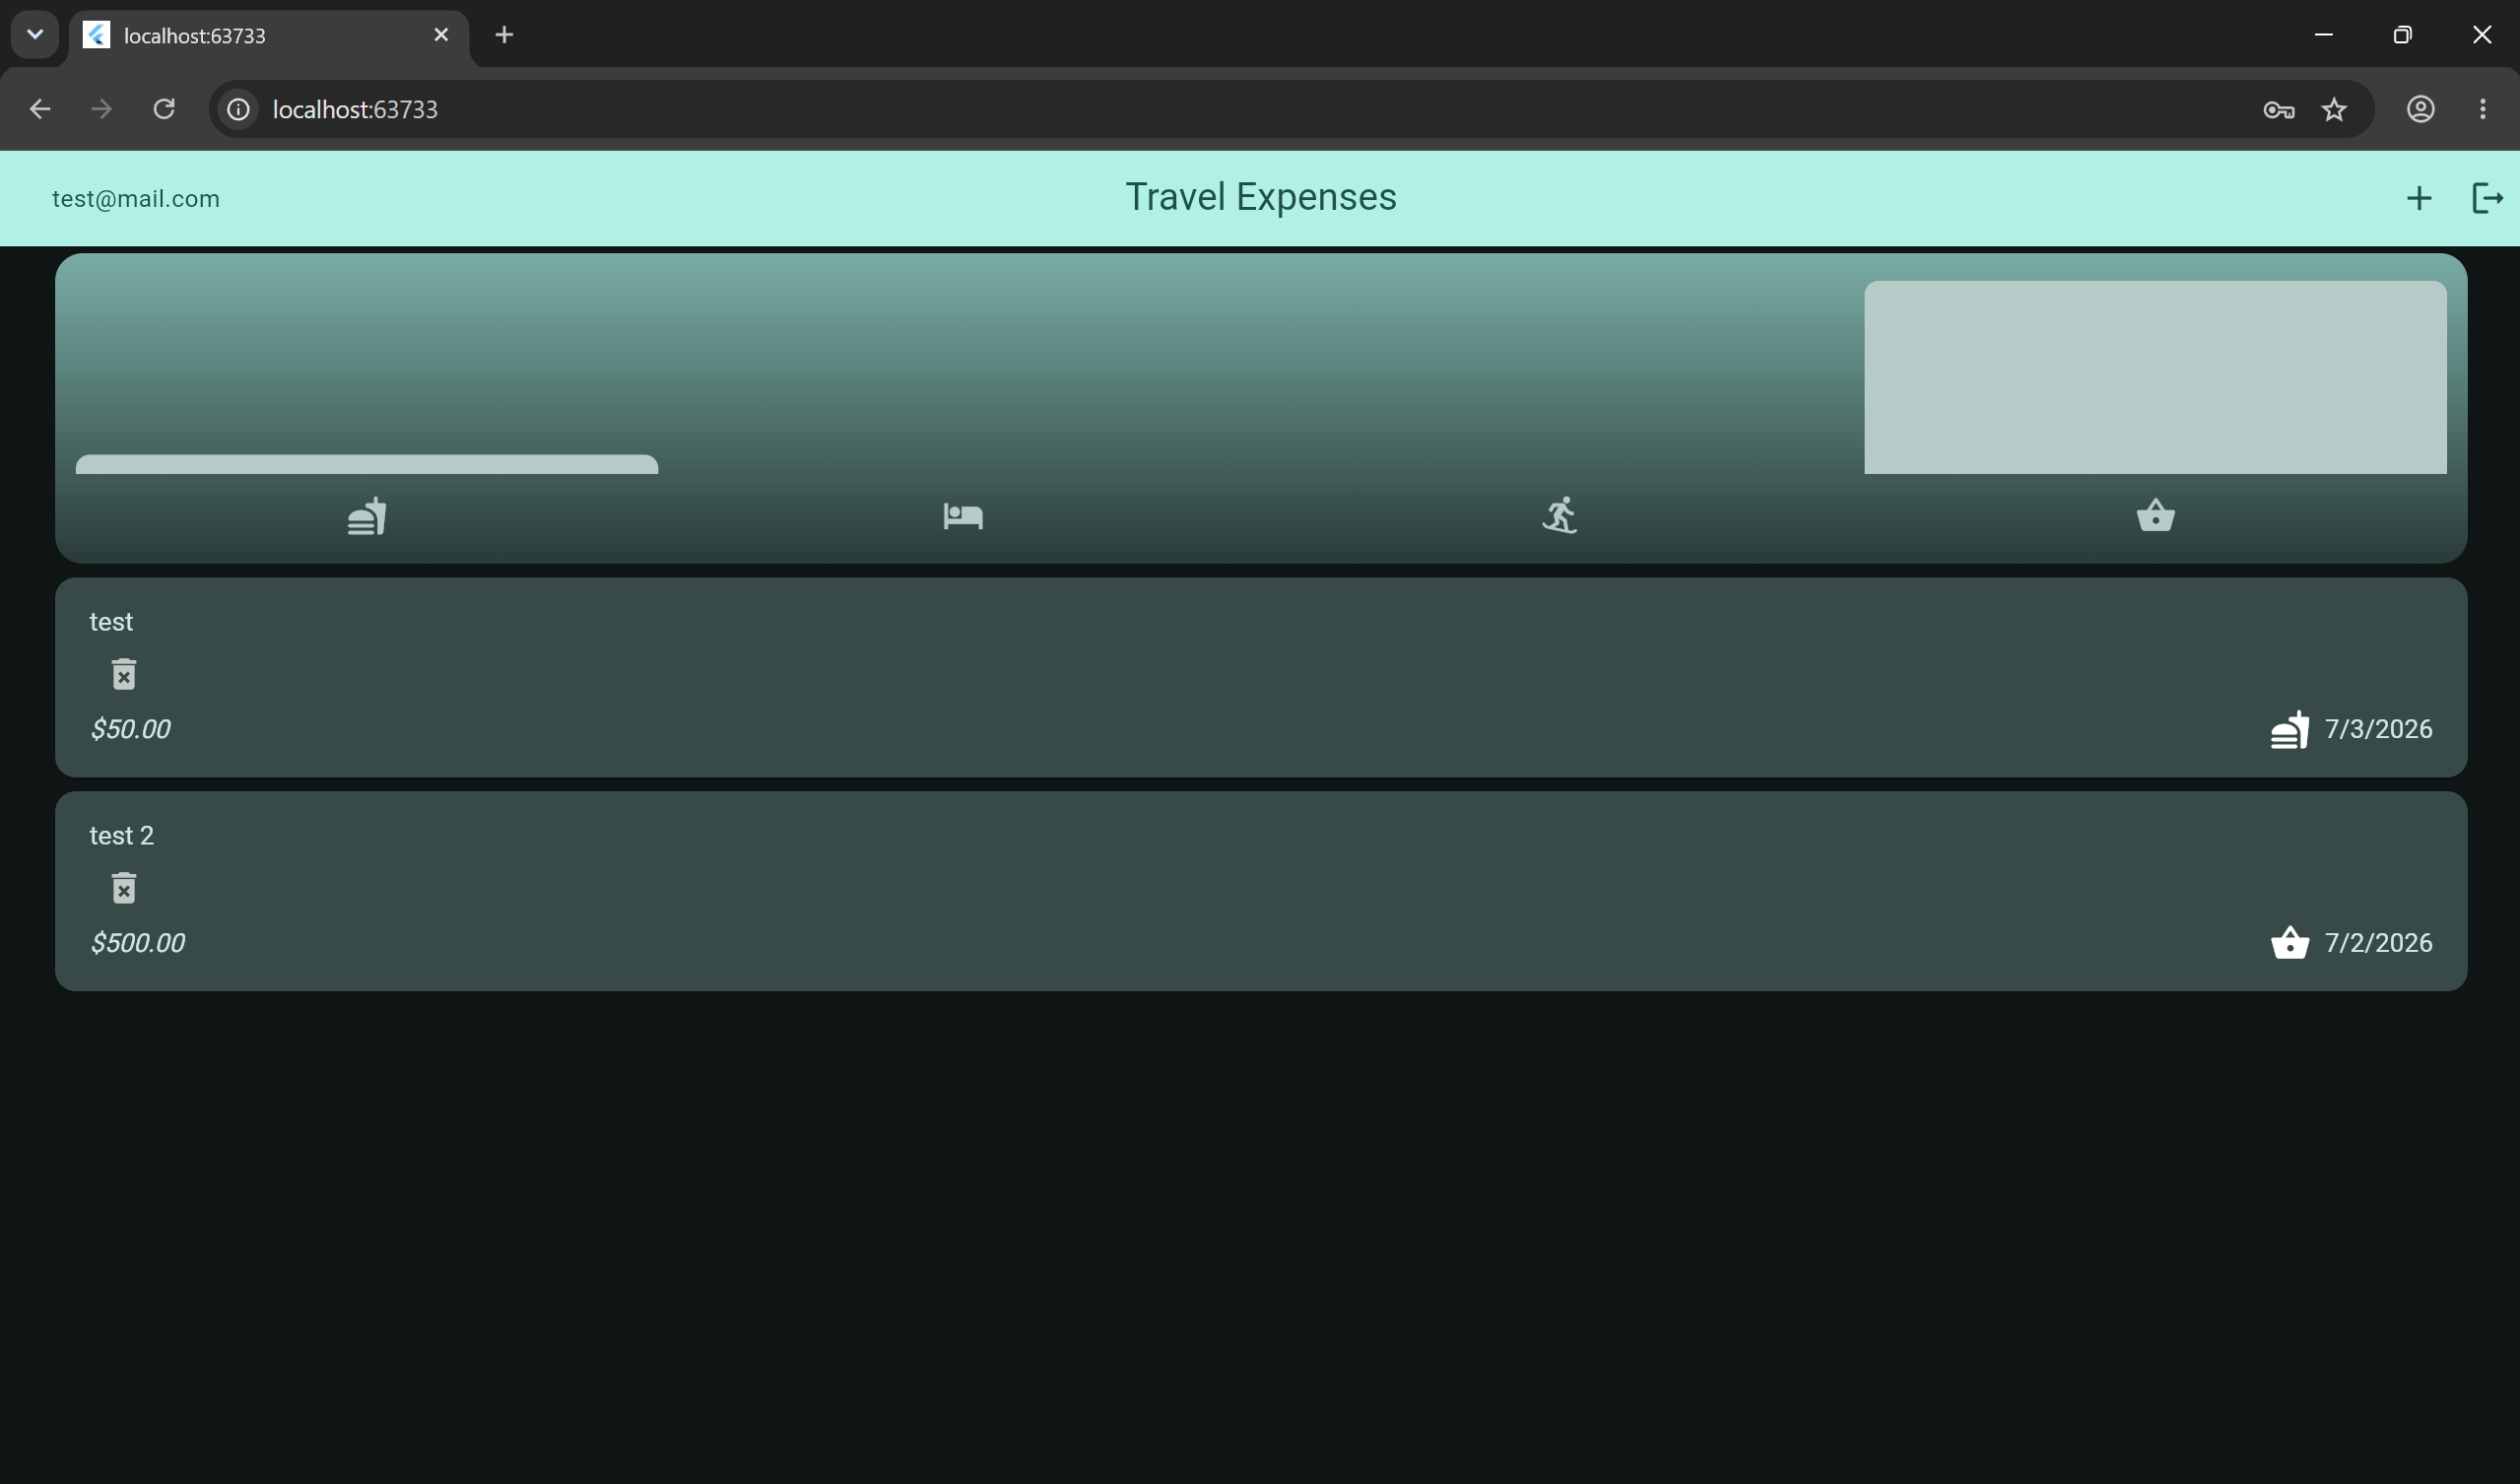
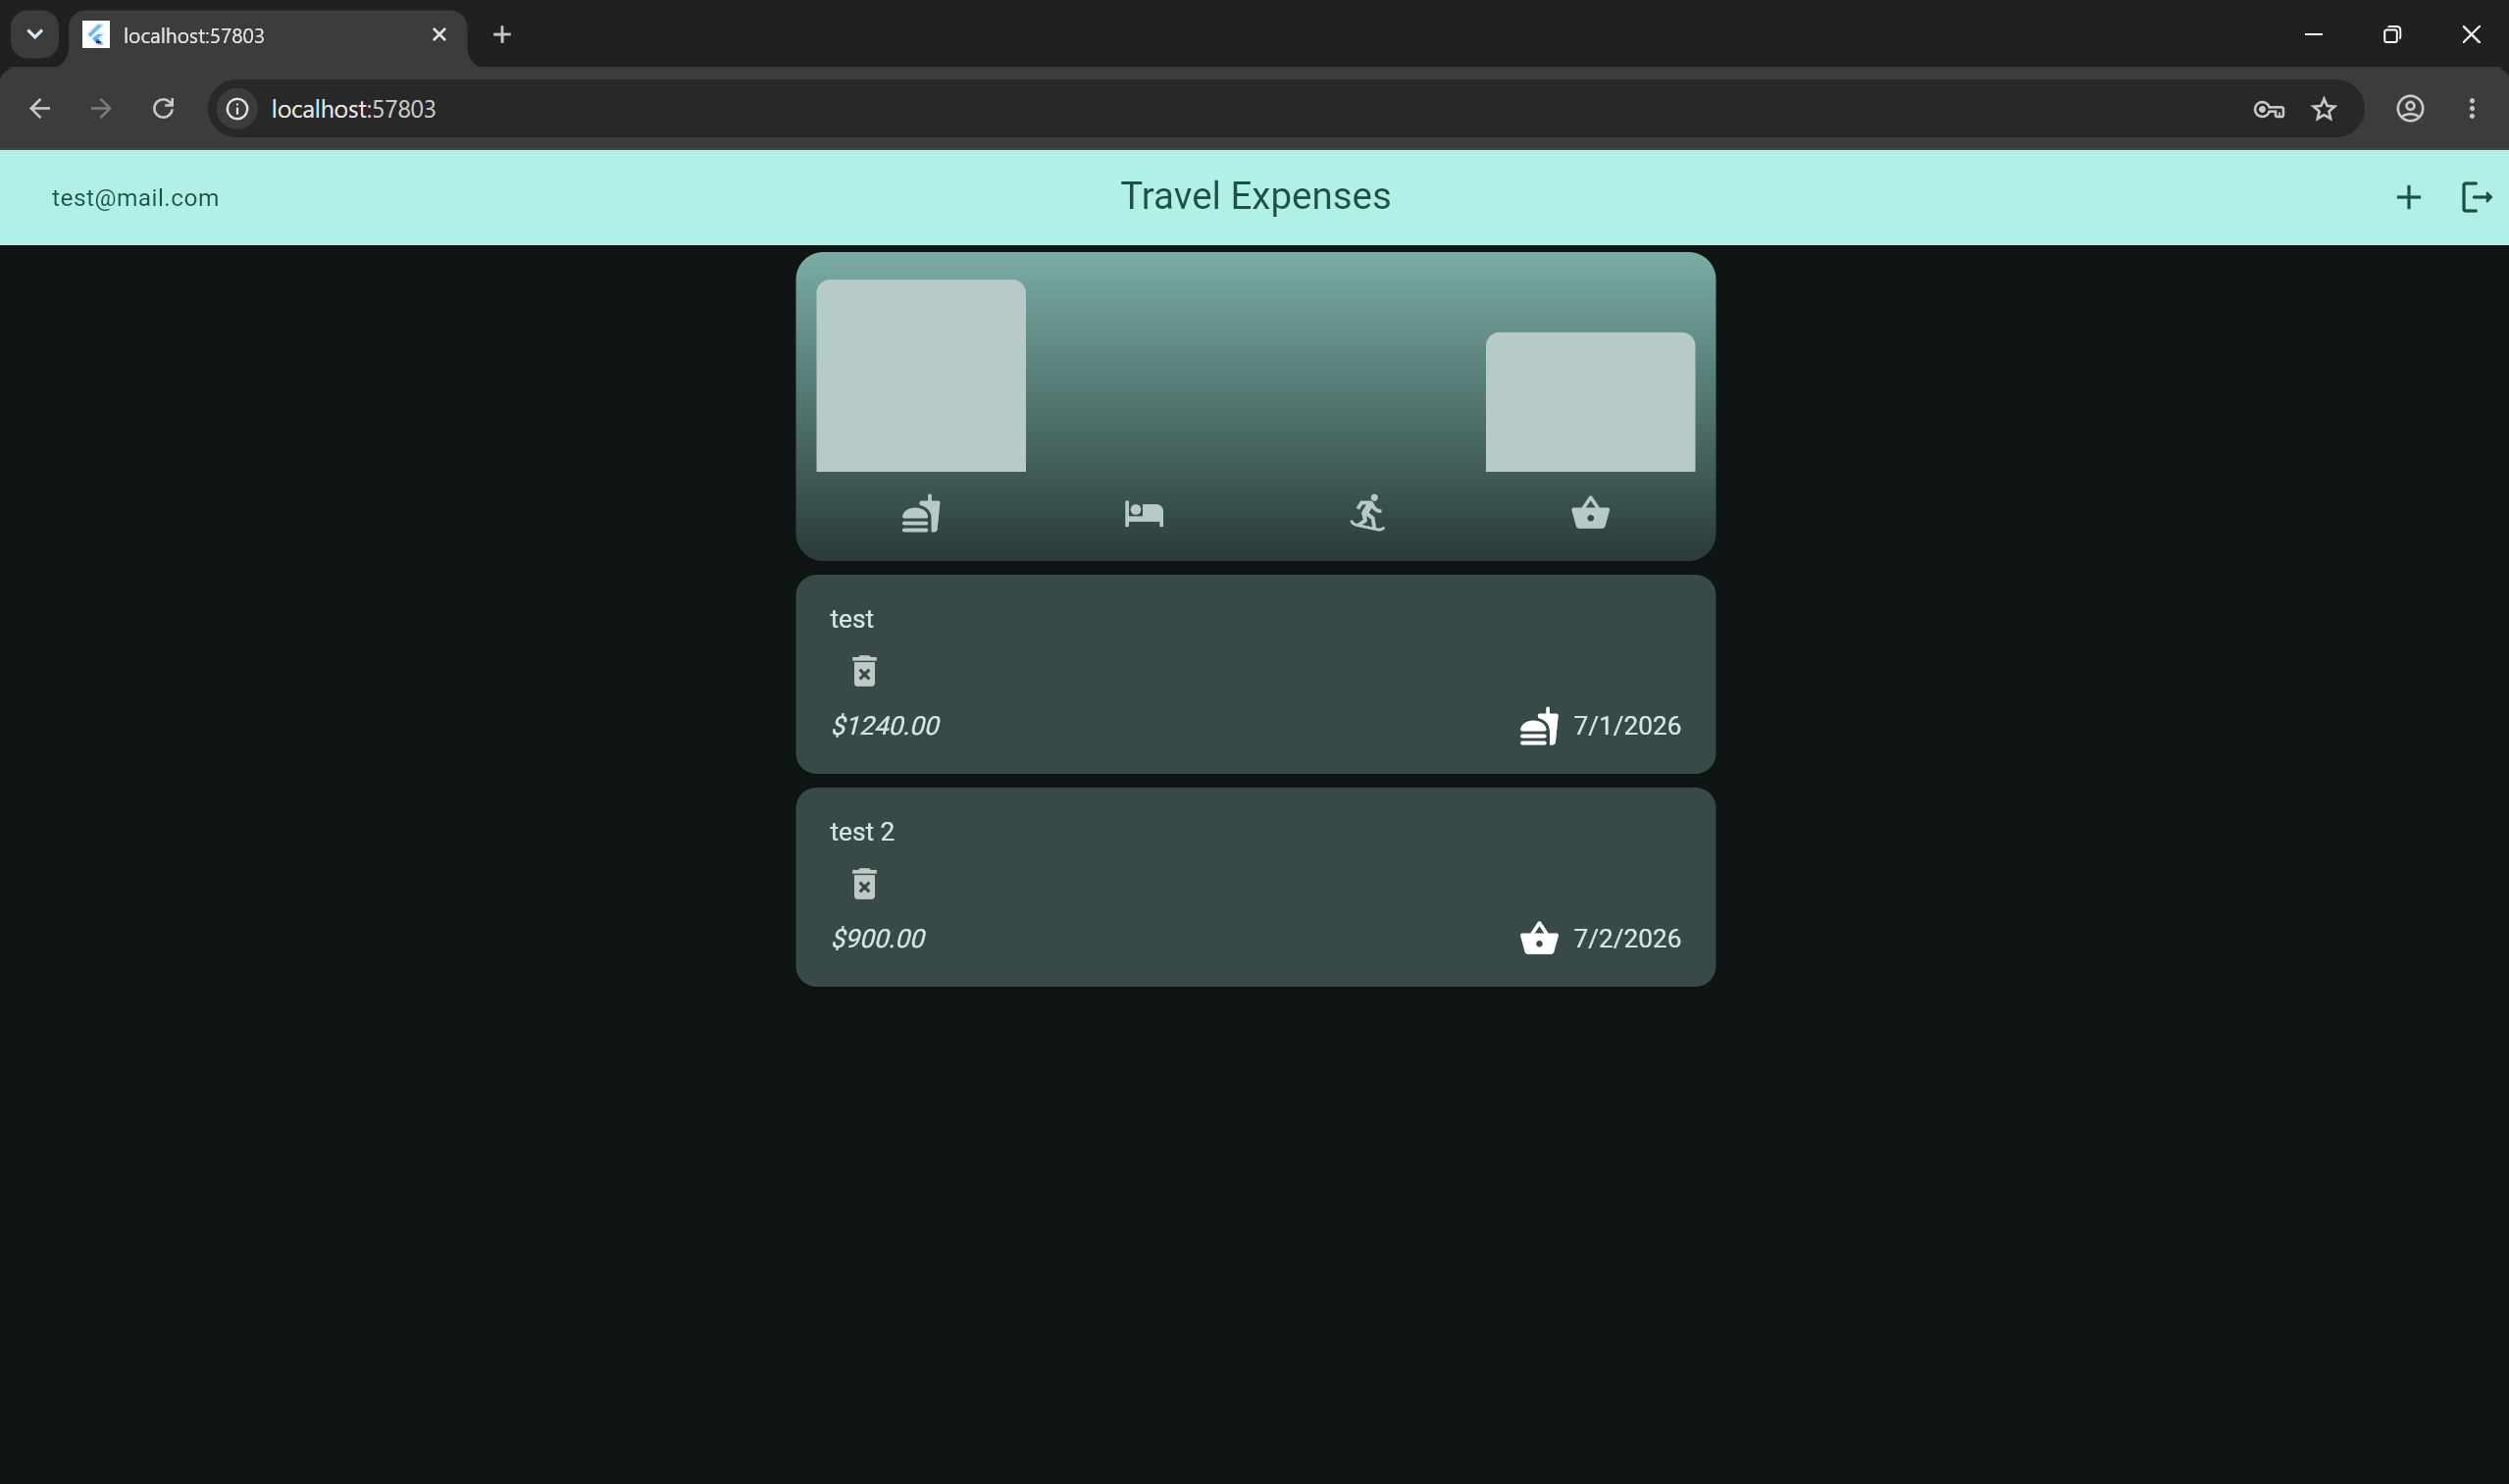
Constrain expenses screen and make the email text take up less space

diff --git a/travel_expenses/lib/expenses.dart b/travel_expenses/lib/expenses.dart
@@ -36,7 +36,7 @@ class _ExpensesState extends State<Expenses> {
 
     return Scaffold(
       appBar: AppBar(
-        leadingWidth: 150,
+        leadingWidth: 120,
         leading: Center(
           child: Padding(padding: const EdgeInsets.only(left: 8.0),
           child: Text(userEmail),
@@ -57,17 +57,22 @@ class _ExpensesState extends State<Expenses> {
           ),
         ],
       ),
-      body: Consumer<ExpenseState>(
-        builder: (context, expensesState, child) {
-          return Column(
-            children: [
-              Chart(expenses: expensesState.expenses),
-              Expanded(
-                child: ExpensesList(allExpenses: expensesState.expenses),
-              ),
-            ],
-          );
-        },
+      body: Center(
+        child: ConstrainedBox(
+          constraints: const BoxConstraints(maxWidth: 600),
+          child: Consumer<ExpenseState>(
+            builder: (context, expensesState, child) {
+              return Column(
+                children: [
+                  Chart(expenses: expensesState.expenses),
+                  Expanded(
+                    child: ExpensesList(allExpenses: expensesState.expenses),
+                  ),
+                ],
+              );
+            },
+          ),
+        ),
       ),
     );
   }

diff --git a/travel_expenses/README.md b/travel_expenses/README.md
@@ -12,8 +12,7 @@ This week involved the task of creating the basic structure of the app's UI. A n
 Timezone changes were why the commits after this point were at very late times as I had a flight to Bangladesh. Modelling the state file was the biggest task of this week but once that's done, there's a central point for all of the data types which makes future changes much easier.
 
 ## Week 7
-Same pattern as previous weeks but implementing like the totally new chart widget and dropdown widget made this week more challenging. A future bug to fix was how text didn't properly change to white on the dark theme.
-
+Same pattern as previous weeks but implementing like the totally new chart widget and dropdown widget made this week more challenging. A future bug to fix was how text didn't properly change to white on the dark theme. A small note is that the overlay takes up the full screen on mobile but on web that would look off, so only the middle portion is taken.
 ## Week 8
 Following the tutorial for the week, implemented state management which made it so now the data and the transactions are in a central point for the app. State changes don't seem to persist when re-running the browser debug command but do persist when reloading both on web and Android.
 ### Justification for shared_preferences